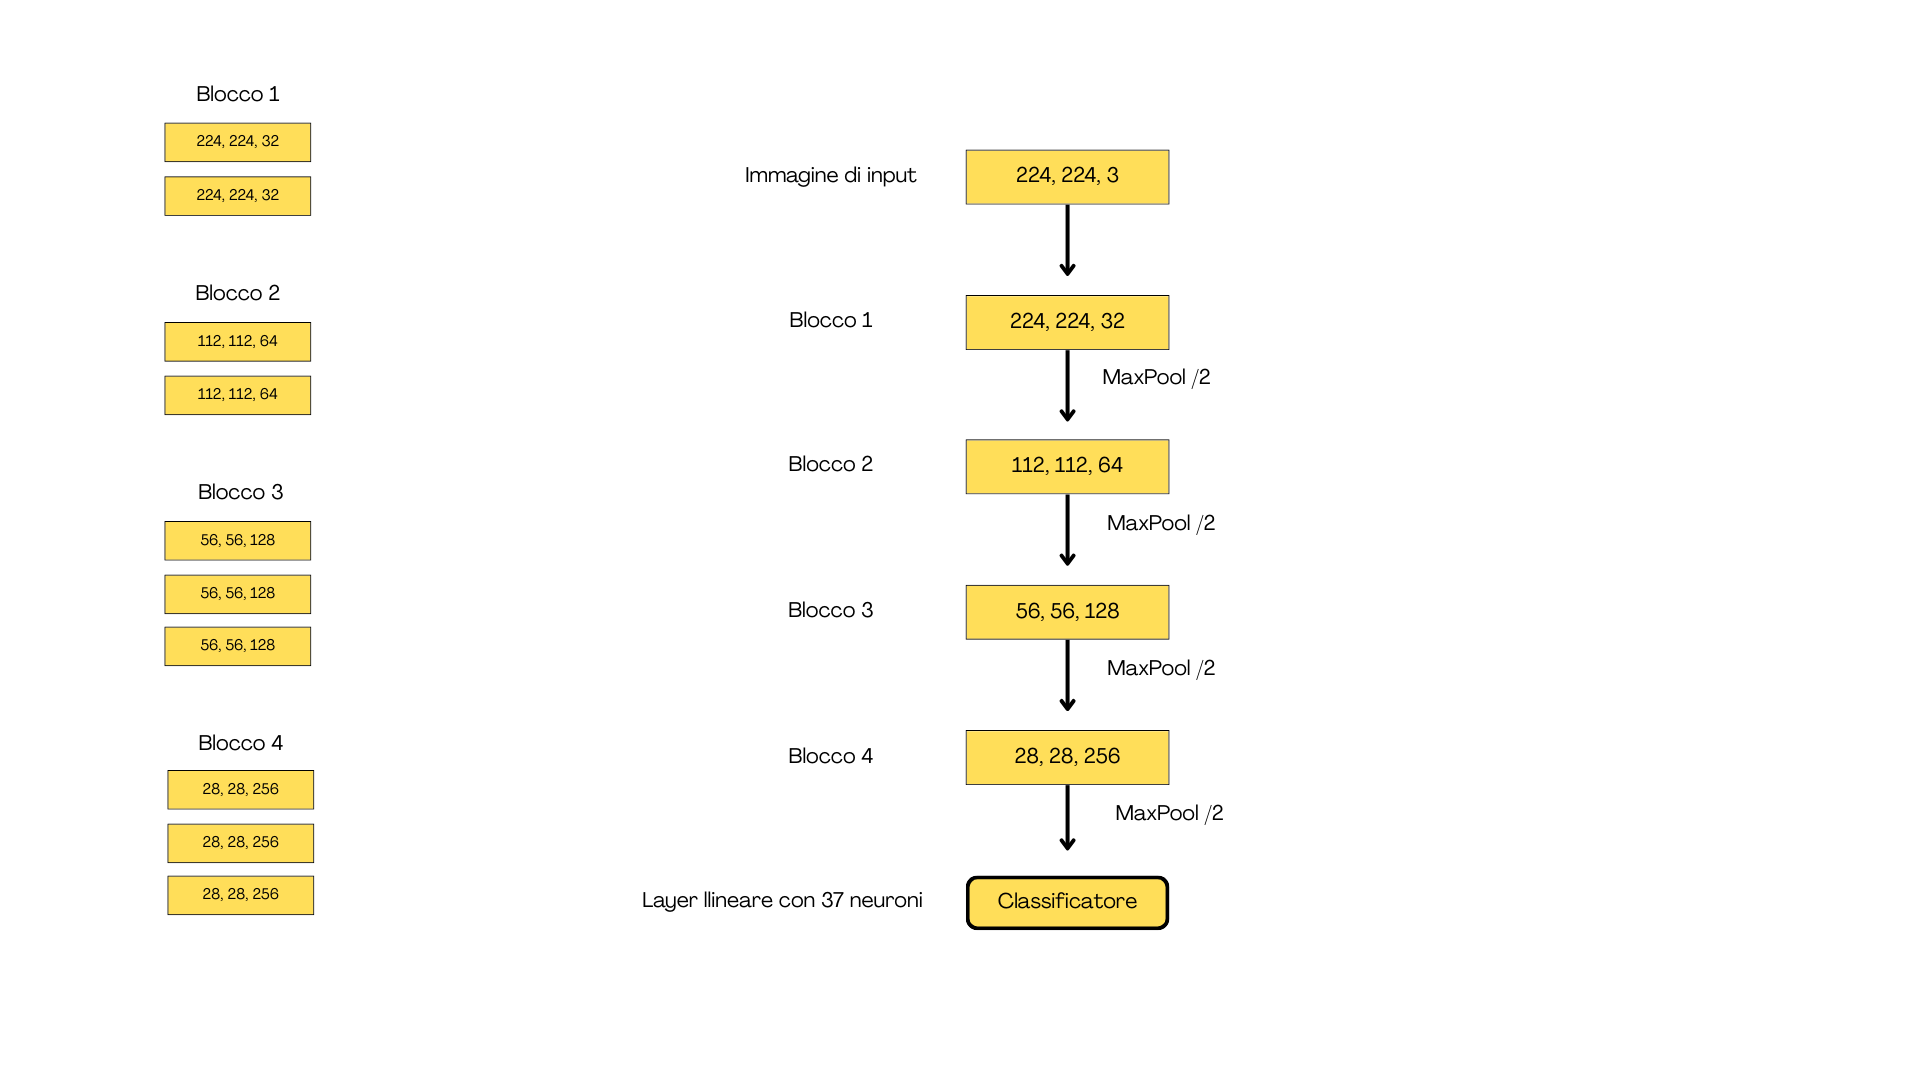
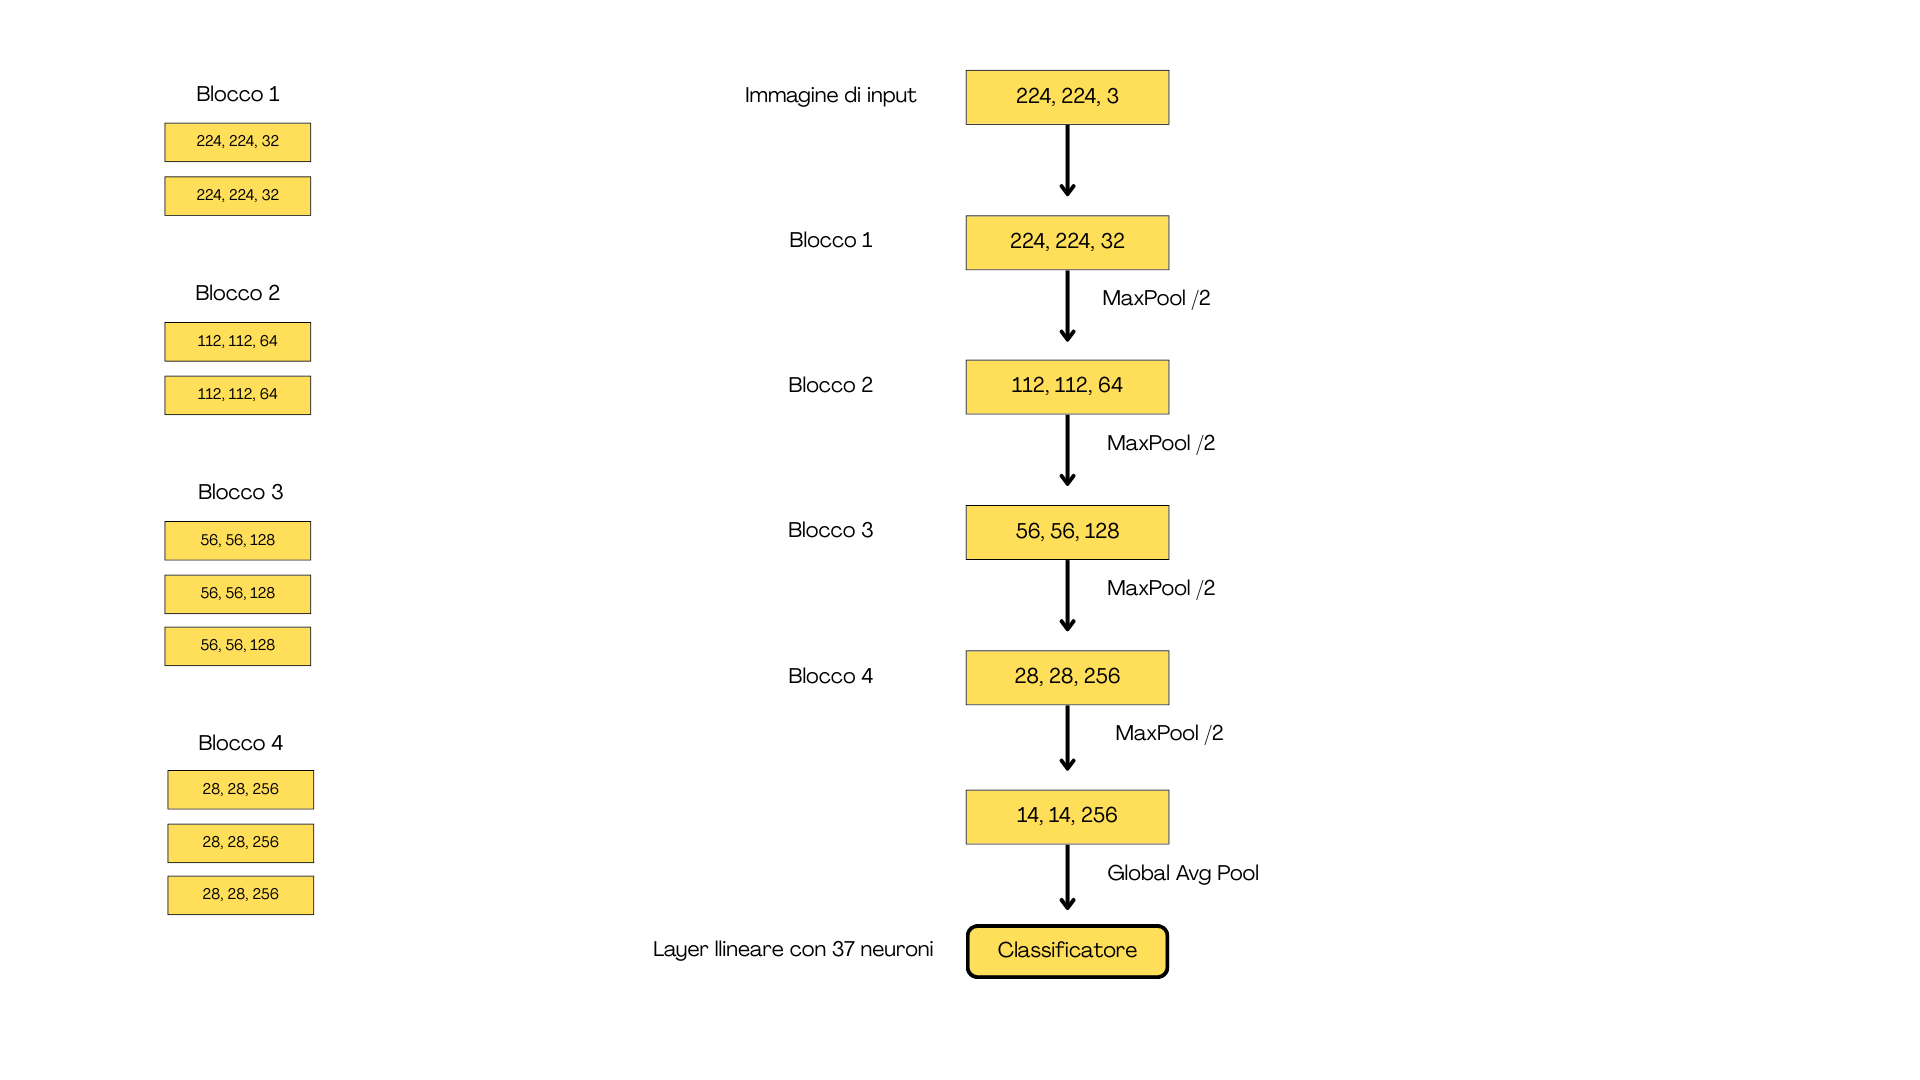
aggiornati commenti ed immagini

diff --git a/models/InceptionModel.py b/models/InceptionModel.py
@@ -1,19 +1,27 @@
 import torch
 import torch.nn as nn
-import torch.nn.functional as F
 
 """
-Questo modello si ispira all'architettura Inception (GoogLeNet).
-La filosofia qui cambia radicalmente: invece di andare solo in profondità (Deep), andiamo in larghezza (Wide).
+MODELLO: Inception CNN (Ispirato all'architettura GoogLeNet: Szegedy et al. (2015) "Going Deeper with Convolutions")
+DESCRIZIONE:
+    Questa architettura implementa la filosofia "Wide & Deep", ispirata a GoogLeNet. 
+    A differenza delle reti lineari classiche, questo modello punta sulla 
+    parallelizzazione del calcolo per estrarre informazioni a diverse scale spaziali 
+    contemporaneamente nello stesso livello della rete.
 
-In ogni "Inception Module", l'input viene processato PARALLELAMENTE da filtri di dimensioni diverse:
-1. Conv 1x1: Cattura relazioni tra i canali e riduce la dimensionalità.
-2. Conv 3x3: Cattura dettagli medi.
-3. Conv 5x5: Cattura feature più ampie e contestuali.
-4. MaxPool: Mantiene le feature più forti.
-
-Tutti questi risultati vengono CONCATENATI. La rete imparerà autonomamente se per classificare
-quella specifica feature le serve guardare "da vicino" (3x3) o "da lontano" (5x5).
+CARATTERISTICHE ARCHITETTURALI:
+    - Inception Modules (7 blocchi): Il cuore della rete è composto da 7 moduli 
+      Inception. Ogni modulo processa l'input attraverso 4 rami paralleli 
+      (Conv 1x1, 3x3, 5x5 e MaxPool) le cui uscite vengono concatenate.
+    - Profondità Totale: La rete conta 31 layer con parametri apprendibili 
+      (30 convoluzioni e 1 fully connected), strutturati in uno "Stem" iniziale, 
+      3 blocchi di Inception e un classificatore finale.
+    - Feature Extraction: L'uso di kernel di dimensioni differenti 
+      permette alla rete di catturare sia dettagli fini che pattern contestuali 
+      più ampi, adattandosi a oggetti di dimensioni variabili nel dataset.
+    - Efficienza e Regolarizzazione: L'uso dell'Adaptive Average Pooling riduce 
+      drasticamente il numero di parametri finali, mentre il Dropout al 40% 
+      previene l'overfitting nonostante l'elevata larghezza della rete.
 """
 
 class InceptionModule(nn.Module):
@@ -28,7 +36,6 @@ class InceptionModule(nn.Module):
         )
         
         # RAMO 2: Convoluzione 3x3 
-        # Usiamo padding=1 per mantenere le dimensioni uguali all'input
         self.branch2 = nn.Sequential(
             nn.Conv2d(in_channels, out_3x3, kernel_size=3, padding=1),
             nn.BatchNorm2d(out_3x3),
@@ -36,7 +43,6 @@ class InceptionModule(nn.Module):
         )
         
         # RAMO 3: Convoluzione 5x5
-        # Padding=2 per mantenere le dimensioni.
         self.branch3 = nn.Sequential(
             nn.Conv2d(in_channels, out_5x5, kernel_size=5, padding=2),
             nn.BatchNorm2d(out_5x5),
@@ -44,72 +50,85 @@ class InceptionModule(nn.Module):
         )
         
         # RAMO 4: Max Pooling
-        # Seguito da 1x1 per aggiustare i canali se necessario (qui semplificato).
         self.branch4 = nn.Sequential(
             nn.MaxPool2d(kernel_size=3, stride=1, padding=1),
-            nn.Conv2d(in_channels, out_1x1, kernel_size=1), # Proiezione per ridurre canali
+            nn.Conv2d(in_channels, out_1x1, kernel_size=1),
             nn.BatchNorm2d(out_1x1),
             nn.ReLU(inplace=True)
         )
 
     def forward(self, x):
-        # Eseguiamo tutti i rami in parallelo
         y1 = self.branch1(x)
         y2 = self.branch2(x)
         y3 = self.branch3(x)
         y4 = self.branch4(x)
-        
-        # Concateniamo i risultati lungo la dimensione dei canali (dim=1)
-        # L'output avrà canali = out_1x1 + out_3x3 + out_5x5 + out_1x1
         return torch.cat([y1, y2, y3, y4], 1)
 
-class CustomInceptionNet(nn.Module):
+class CustomCNN(nn.Module):
     def __init__(self, num_classes=37):
-        super(CustomInceptionNet, self).__init__()
+        super(CustomCNN, self).__init__()
         
-        # Stem iniziale
+        # --- STEM ---
         self.pre_layers = nn.Sequential(
-            nn.Conv2d(3, 32, kernel_size=3, padding=1),
-            nn.BatchNorm2d(32),
+            nn.Conv2d(3, 64, kernel_size=7, stride=2, padding=3),
+            nn.BatchNorm2d(64),
             nn.ReLU(inplace=True),
-            nn.MaxPool2d(2, 2) # Dimensione immagine 224 -> 112
+            nn.MaxPool2d(3, stride=2, padding=1),
+            
+            nn.Conv2d(64, 192, kernel_size=3, padding=1), 
+            nn.BatchNorm2d(192),
+            nn.ReLU(inplace=True),
+            nn.MaxPool2d(3, stride=2, padding=1)
         )
 
-        # BLOCCO 1 
-        self.inception1 = InceptionModule(in_channels=32, out_1x1=16, out_3x3=32, out_5x5=16) 
-        # Output canali: 16+32+16+16 = 80 
-
-        self.pool1 = nn.MaxPool2d(2, 2) # Dimensione immagine 112 -> 56
-
-        # BLOCCO 2 
-        self.inception2 = InceptionModule(in_channels=80, out_1x1=48, out_3x3=96, out_5x5=48)
-        # Output canali: 48+96+48+48 = 240 
-
-        self.pool2 = nn.MaxPool2d(2, 2) # Dimensione immagine 56 -> 28
-
-        # BLOCCO 3
-        self.inception3 = InceptionModule(in_channels=240, out_1x1=64, out_3x3=192, out_5x5=64)
-        # Output canali: 64+192+64+64 = 384
-
-        # Global Average Pooling
-        self.avgpool = nn.AdaptiveAvgPool2d((1, 1))
+        # --- BLOCCO 1 ---
+        # Input: 192. 
+        # Output calc: 64 (br1) + 128 (br2) + 32 (br3) + 64 (br4 usa out_1x1) = 288
+        self.inception1a = InceptionModule(192, out_1x1=64, out_3x3=128, out_5x5=32)
         
-        self.dropout = nn.Dropout(0.2)
-        self.fc = nn.Linear(384, num_classes)
+        # Input: 288 (era 256 nel tuo codice, corretto a 288).
+        # Output calc: 128 + 192 + 96 + 128 = 544
+        self.inception1b = InceptionModule(288, out_1x1=128, out_3x3=192, out_5x5=96)
+        
+        self.pool1 = nn.MaxPool2d(3, stride=2, padding=1)
+
+        # --- BLOCCO 2 ---
+       # Input: 544 -> Output calc: 192 + 208 + 48 + 192 = 640
+        self.inception2a = InceptionModule(544, out_1x1=192, out_3x3=208, out_5x5=48)
+        # Input: 640 -> Output calc: 192 + 256 + 64 + 192 = 704
+        self.inception2b = InceptionModule(640, out_1x1=192, out_3x3=256, out_5x5=64)
+        # Input: 704 -> Output calc: 224 + 288 + 64 + 224 = 800
+        self.inception2c = InceptionModule(704, out_1x1=224, out_3x3=288, out_5x5=64)
+        self.pool2 = nn.MaxPool2d(3, stride=2, padding=1)
+
+        # --- BLOCCO 3 --- 
+        # Input: 800 -> Output calc: 256 + 320 + 128 + 256 = 960
+        self.inception3a = InceptionModule(800, out_1x1=256, out_3x3=320, out_5x5=128)
+        # Input: 960 -> Output calc: 384 + 384 + 128 + 384 = 1280
+        self.inception3b = InceptionModule(960, out_1x1=384, out_3x3=384, out_5x5=128)
+        # --- CLASSIFICATORE ---
+        self.avgpool = nn.AdaptiveAvgPool2d((1, 1))
+        self.dropout = nn.Dropout(0.4)
+        self.fc = nn.Linear(1280, num_classes)
 
     def forward(self, x):
         x = self.pre_layers(x)
         
-        x = self.inception1(x)
-        x = self.pool1(x)
+        x = self.inception1a(x)
+        x = self.inception1b(x)
+        x = self.pool1(x) 
         
-        x = self.inception2(x)
+        x = self.inception2a(x)
+        x = self.inception2b(x)
+        x = self.inception2c(x)
         x = self.pool2(x)
         
-        x = self.inception3(x)
+        x = self.inception3a(x)
+        x = self.inception3b(x)
         
         x = self.avgpool(x)
         x = torch.flatten(x, 1)
         x = self.dropout(x)
         x = self.fc(x)
+        
         return x

diff --git a/models/CustomResNet.py b/models/CustomResNet.py
@@ -2,18 +2,18 @@ import torch.nn as nn
 import torch.nn.functional as F
 
 """
-MODELLO: Custom ResNet-18 (Residual Network)
+MODELLO: Custom ResNet-18 (ispirato all'architettura RenSet: Kaiming He, Xiangyu Zhang, Shaoqing Ren, Jian Sun (2016) "Deep Residual Learning for Image Recognition")
 DESCRIZIONE:
     Implementazione di una architettura ResNet-18. Questa rete è progettata per risolvere
     il "degradation problem" che affligge le reti molto profonde.
 
-IL PROBLEMA (Degradation vs Overfitting):
+IL PROBLEMA:
     Nelle reti classiche (es. VGG), aumentare troppo la profondità porta a un aumento dell'errore
     sia di training che di validazione. Non è overfitting (in quanto si assisterebbe ad un aumento dell'errore di validazione,
     a dispetto di una decrescita di quello di training), ma una difficoltà di ottimizzazione dovuta alla dispersione del gradiente.
 
 LA SOLUZIONE (Skip Connections):
-    Ogni blocco convoluzionale possiede una "scorciatoia" (shortcut) che somma l'input 
+    Ogni blocco convoluzionale possiede una connessione ("shortcut") che somma l'input 
     direttamente all'output delle convoluzioni: Output = F(x) + x.
     Questo permette al gradiente di fluire all'indietro liberamente ("identity mapping"),
     rendendo addestrabili reti con un numero maggiore di strati.
@@ -47,7 +47,7 @@ class ResidualBlock(nn.Module):
         Questo controllo è essenziale in quanto la dimensione dell'input e dell'output di un blocco convolutivo in cui si utilizza
         una skip connection deve essere della stessa dimensione.
         Quando si applica uno stride diverso da 1 per andare a decremnetare la dimensione dell'immagine ed aumentare il numero dei
-        canali non è possibile applicare una skip connection.        
+        canali non sarebbe possibile applicare una skip connection direttamnete, quindi si utilizza una convoluzione 1x1 per renderla possibile a livello di dimensioni.        
         """
         if stride != 1 or in_channels != out_channels:
             self.shortcut = nn.Sequential(
@@ -108,7 +108,7 @@ class CustomCNN(nn.Module):
         x = self.layer4(x) 
         
         x = self.avg_pool(x)
-        x = x.view(x.size(0), -1) 
+        x = x.view(x.size(0), -1) #Ridimensioniamo il tensore da passare al classificatore finale, passiamo da 4 dimensioni a 2
         x = self.fc(x)
         
         return x

diff --git a/models/MobileCNN.py b/models/MobileCNN.py
@@ -1,7 +1,7 @@
 import torch.nn as nn
 
 """
-MODELLO: Custom MobileNet (V1-Inspired)
+MODELLO: Custom MobileNet (ispirato dall'architettura MobileNet: Howard, A. G., et al. (2017) "MobileNets: Efficient Convolutional Neural Networks for Mobile Vision Applications.")
 DESCRIZIONE:
     Questo modello implementa un'architettura leggera ispirata a MobileNet V1.
     L'obiettivo è ottimizzare il rapporto performance/costo computazionale separando 
@@ -10,7 +10,7 @@ DESCRIZIONE:
 PRINCIPIO DI FUNZIONAMENTO:
     Invece di usare filtri convoluzionali standard, ogni blocco opera in due fasi:
     1. Depthwise Conv (Spaziale): Filtra ogni canale di input singolarmente.
-    2. Pointwise Conv (Canale): Combinazione lineare 1x1 dei canali (per mescolare le features).
+    2. Pointwise Conv (Canale): Combinazione lineare 1x1 dei canali.
     
 CARATTERISTICHE ARCHITETTURALI:
     - Downsampling: Non utilizza MaxPool. La riduzione dimensionale avviene tramite 
@@ -99,12 +99,19 @@ class CustomCNN(nn.Module):
         x = self.conv1(x)
         x = self.layers(x)
         x = self.avg_pool(x)
-        x = x.view(x.size(0), -1)
+        x = x.view(x.size(0), -1) #Ridimensioniamo il tensore da passare al classificatore finale, passiamo da 4 dimensioni a 2
         x = self.dropout(x)
         x = self.fc(x)
         return x
 
     def _initialize_weights(self):
+        """
+        Inizializza i pesi del modello seguendo le best practice per reti deep.
+        Viene fatto sia per i layer convoluzionali che per i layer di batch normalization.
+        Lo scopo è quello di ridurre l'effetto di scomparsa del gradiente, che solitamente si verifica quando aumenta
+        la profondità della rete.
+        Segnale di questo fenomeno è l'innalzamento dell'errore di training e di quello di validazione.
+        """ 
         for m in self.modules():
             if isinstance(m, nn.Conv2d):
                 nn.init.kaiming_normal_(m.weight, mode='fan_out')

diff --git a/models/SimpleCNN.py b/models/SimpleCNN.py
@@ -1,23 +1,23 @@
 import torch.nn as nn
 
 """
-MODELLO: Mini-VGG (CustomNN)
+MODELLO: SimpleCNN (ispirato all'architettura stile VCC, con molti meno layer)
 DESCRIZIONE:
     Questo modello rappresenta la baseline di partenza per i futuri esperimenti.
     Segue un'architettura stile VGG semplificata con 8 strati apprendibili (6 Conv + 2 FC).
 
 CARATTERISTICHE PRINCIPALI:
     - Input: Immagini RGB (3 canali).
-    - Backbone: 3 blocchi sequenziali, ognuno composto da doppia convoluzione 3x3, 
+    - L'estrazione delle feature avviene mediante 3 blocchi sequenziali, ognuno composto da doppia convoluzione 3x3, 
       Batch Normalization, ReLU e Max Pooling 2x2.
-    - Bottleneck: Utilizza Global Average Pooling (AdaptiveAvgPool) invece del semplice Flatten.
-      Questo riduce drasticamente il numero di parametri e previene l'overfitting spaziale.
+    - Per passare i dati al layer lineare che eseguire la classificazione si utilizza Global Average Pooling (AdaptiveAvgPool),
+      invece del semplice Flatten. Questo riduce drasticamente il numero di parametri e previene l'overfitting spaziale.
     - Classificatore: MLP a due stadi (256 -> 512 -> num_classes) con Dropout (0.5).
 """
 
-class CustomNN(nn.Module):
+class CustomCNN(nn.Module):
     def __init__(self, num_classes=37):
-        super(CustomNN, self).__init__()
+        super(CustomCNN, self).__init__()
         
         self.block1 = nn.Sequential(
             nn.Conv2d(3, 64, kernel_size=3, padding=1),
